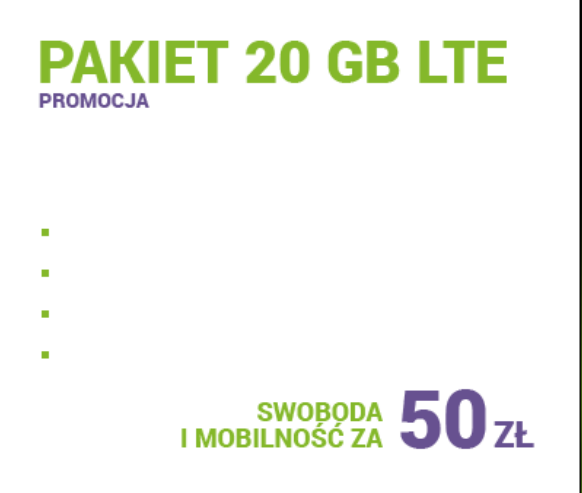
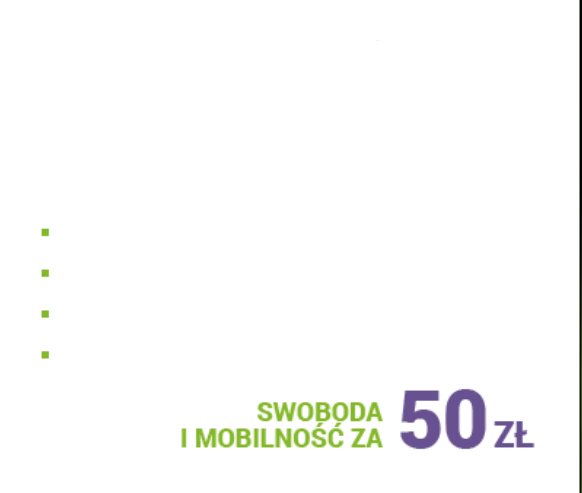
CREATE PARTIALS, SLIDERS, CHANGE MEDIA QUERIES

Changed region(s): [[0.0619, 0.0609, 0.866, 0.2434]]

diff --git a/public/style.css b/public/style.css
@@ -20,13 +20,15 @@ nav {
 }
 
 .btn-circle.btn-md {
-  margin-left: 20%;
   width: 46px;
   height: 46px;
   padding: 0px 13px;
   border-radius: 26px;
   font-size: 24px;
   text-align: center;
+}
+.btn-nav {
+  margin-left: 20%;
 }
 .ml-auto {
   margin-right: 25%;
@@ -37,8 +39,90 @@ nav {
   padding: 0;
   border: 1px solid black;
 }
-/* harmonization of the height if the rows */
-div.row:nth-of-type(3) div {
+/* button in row2, div1 */
+.position-relative1 {
+  position: relative;
+  min-height: 378px;
+}
+.position-absolute1 {
+  position: absolute;
+  top: 75.4%;
+  width: 58%;
+  margin-left: 21%;
+  padding: 5px;
+  border-radius: 0;
+  border-color: rgba(40, 32, 56, 0.5);
+  background-color: rgba(40, 32, 56, 0.5);
+}
+.position-absolute1:hover {
+  border-color: rgb(40, 32, 56);
+  background-color: rgb(58, 44, 83);
+}
+.position-absolute2 {
+  position: absolute;
+  top: 0px;
+  left: 0px;
+}
+
+/* ROW3 div1 - ELEMENTS TO PLACE WITH POSITION RELATIVE */
+p.title-pakiet {
+  position: absolute;
+  z-index: 10;
+  top: 4%;
+  left: 6%;
+  font-family: "Archivo Narrow", sans-serif;
+  font-size: 44px;
+  font-weight: 700;
+  color: rgb(132, 182, 42);
+}
+p.subtitle-pakiet {
+  position: absolute;
+  z-index: 10;
+  top: 17%;
+  left: 6%;
+  font-family: "Archivo Narrow", sans-serif;
+  font-size: 20px;
+  font-weight: 700;
+  color: rgb(103, 81, 144);
+}
+
+/* ROW3 div3 - ELEMENTS TO PLACE WITH POSITION RELATIVE */
+p.title-app {
+  position: absolute;
+  z-index: 10;
+  top: 4%;
+  left: 6%;
+  font-family: "Archivo Narrow", sans-serif;
+  font-size: 44px;
+  font-weight: 700;
+  color: rgb(103, 81, 144);
+}
+
+p.lorem {
+  position: absolute;
+  z-index: 10;
+  top: 24%;
+  left: 7%;
+  font-family: "Archivo Narrow", sans-serif;
+  letter-spacing: 0.05px;
+  font-size: 20px;
+  font-weight: 400;
+  color: rgb(45, 45, 45);
+  line-height: 1.2;
+}
+
+.icons-row3 {
+  position: absolute;
+  z-index: 10;
+  top: 80%;
+  left: 7%;
+  font-size: 31px;
+}
+.fa-windows {
+  margin-left: 10px;
+}
+
+/* harmonization of the height if the rows div.row:nth-of-type(3) div {
   height: 325px;
 }
 
@@ -48,7 +132,7 @@ div.row:nth-of-type(2) div {
 
 div.row:nth-of-type(1) div {
   height: 460;
-}
+} */
 img {
   width: 100%;
   height: 100%;

diff --git a/routes/index.js b/routes/index.js
@@ -10,5 +10,27 @@ router.get("/", (req, res) => {
     return console.log(error);
   }
 });
+//GET MAIN PAGE FROM THE BUTTON
+router.post("/", (req, res) => {
+  try {
+    res.render("index", {
+      layout: "main",
+    });
+  } catch (error) {
+    return console.log(error);
+  }
+});
+
+// LOAD SOMETHING FOR A BUTTON
+router.get("/pakiet", (req, res) => {
+  res.render("pakiet", {
+    layout: "main",
+  });
+});
+router.post("/pakiet", (req, res) => {
+  res.render("pakiet", {
+    layout: "main",
+  });
+});
 
 module.exports = router;

diff --git a/README.md b/README.md
@@ -1,1 +1,12 @@
-## Homework
+### homework IMSET
+
+## Task is to re-create a .psd template with ability to choose technology stack
+
+## Used:
+
+- NodeJS/ Express (do not know React enough to use it for the exercise like this, so I use that technology stack to render HBS templates. The biggest advantage is that I can use as much partials as I want- that is a way simpler and cleaner way of creating views for me)
+- Handlebars to create views (didn`t use EJS, no need of complex JS on site). Layout: main, partials for most of the elements (header, footer)
+- Bootstrap 4.5 - Usually I use materialize, but that one is more popular and I have a chance to refresh it.
+- GIMP to clear images elements that I wanted to recreate with CSS/ Bootstrap as I do not have Photoshop and I did`t use it for at least 5 years. Plus I have Linux/Mint for programming stuff. It was a chance to install and learn it.
+- Font awesome - I did`t find some of the icons to match exacttly the template - the worst one is android icon. Do apologise for it.
+- Google fonts - I did`t find a font to match perfectly yours, but I checked with filter 'narrow' and I looks preety good.
